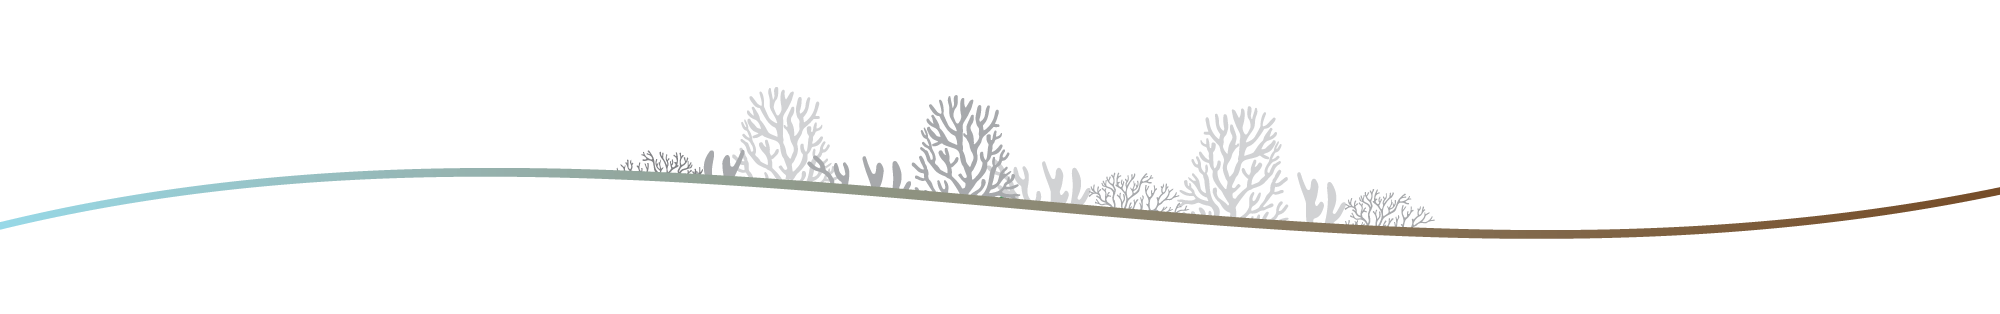
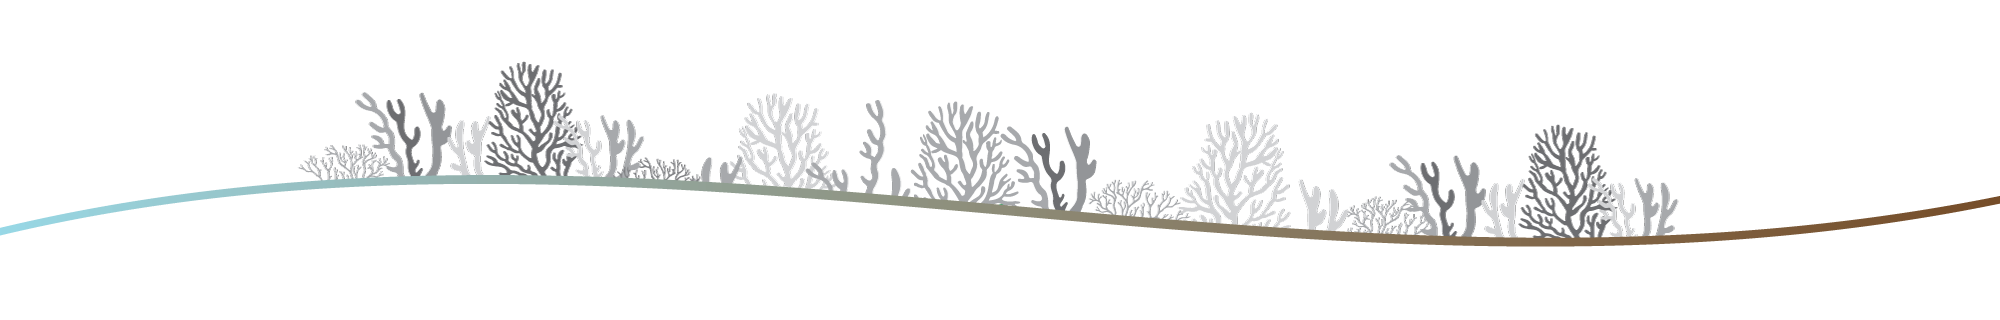
Added imagery

Changed region(s): [[0.0, 0.2006, 1.0, 0.7739]]

diff --git a/app/styles/pat.css b/app/styles/pat.css
@@ -75,14 +75,15 @@ padding-top: 54px;
 }
 .wave-divider2{
   margin-top: 50px;
-  margin-bottom: 138px;
+  margin-bottom: 219px;
 
 }
 
 .section-intro-wrapper{
   position:relative;
   height:0;
-  padding-bottom:106.65%;
+  padding-bottom: 114.65%;
+
 }
 
 
@@ -170,7 +171,7 @@ h3{
   text-align: centre;
   letter-spacing: 2px;
   font-size: 40px;
-  margin-top: 57px;
+  margin-top: 107px;
 
 }
 

diff --git a/app/index.html b/app/index.html
@@ -59,7 +59,7 @@
   </div>
 
     <section class="section-text section-text-above-video">
-      <img class="wave-divider img-responsive"src="images/wave1.png">
+      <img class="wave-divider img-responsive"src="images/wave2.png">
       <div class="container">
       <h3>The mining and burning of coal</h3>
       <p>
